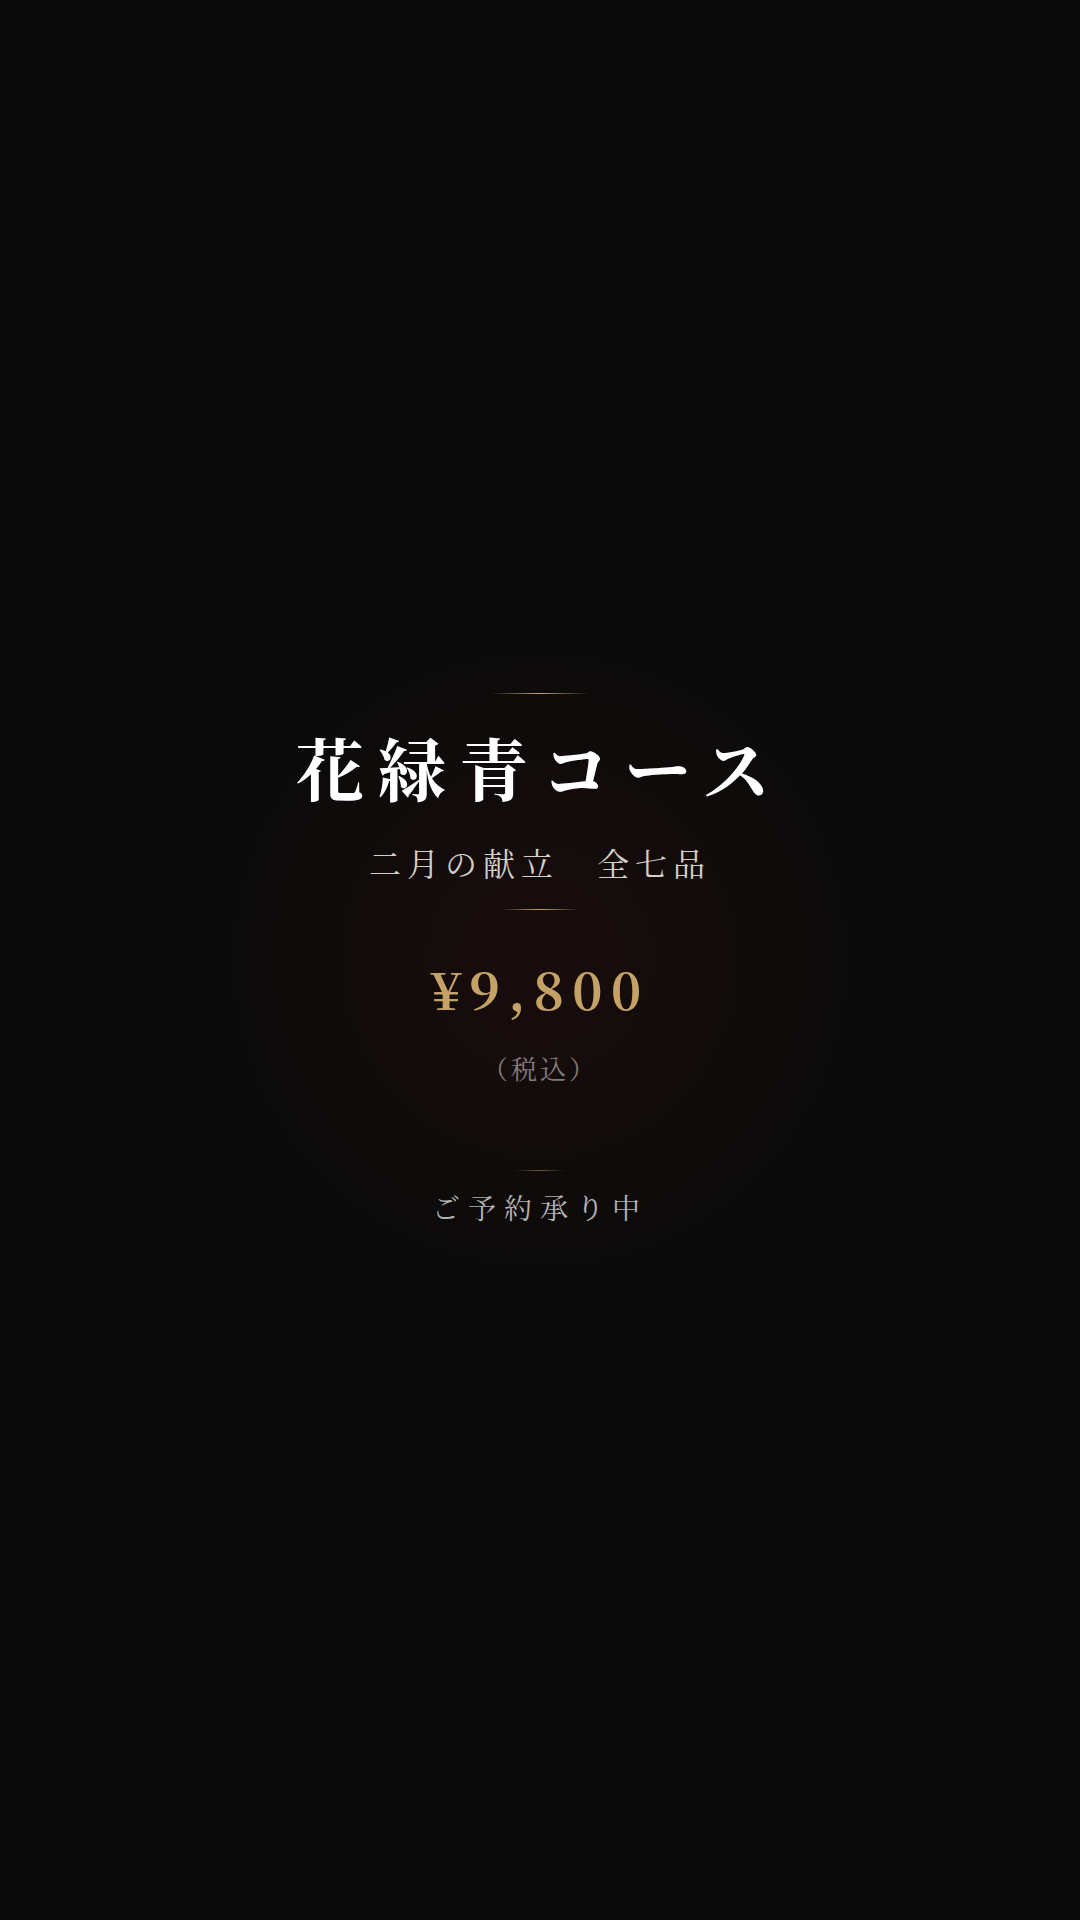
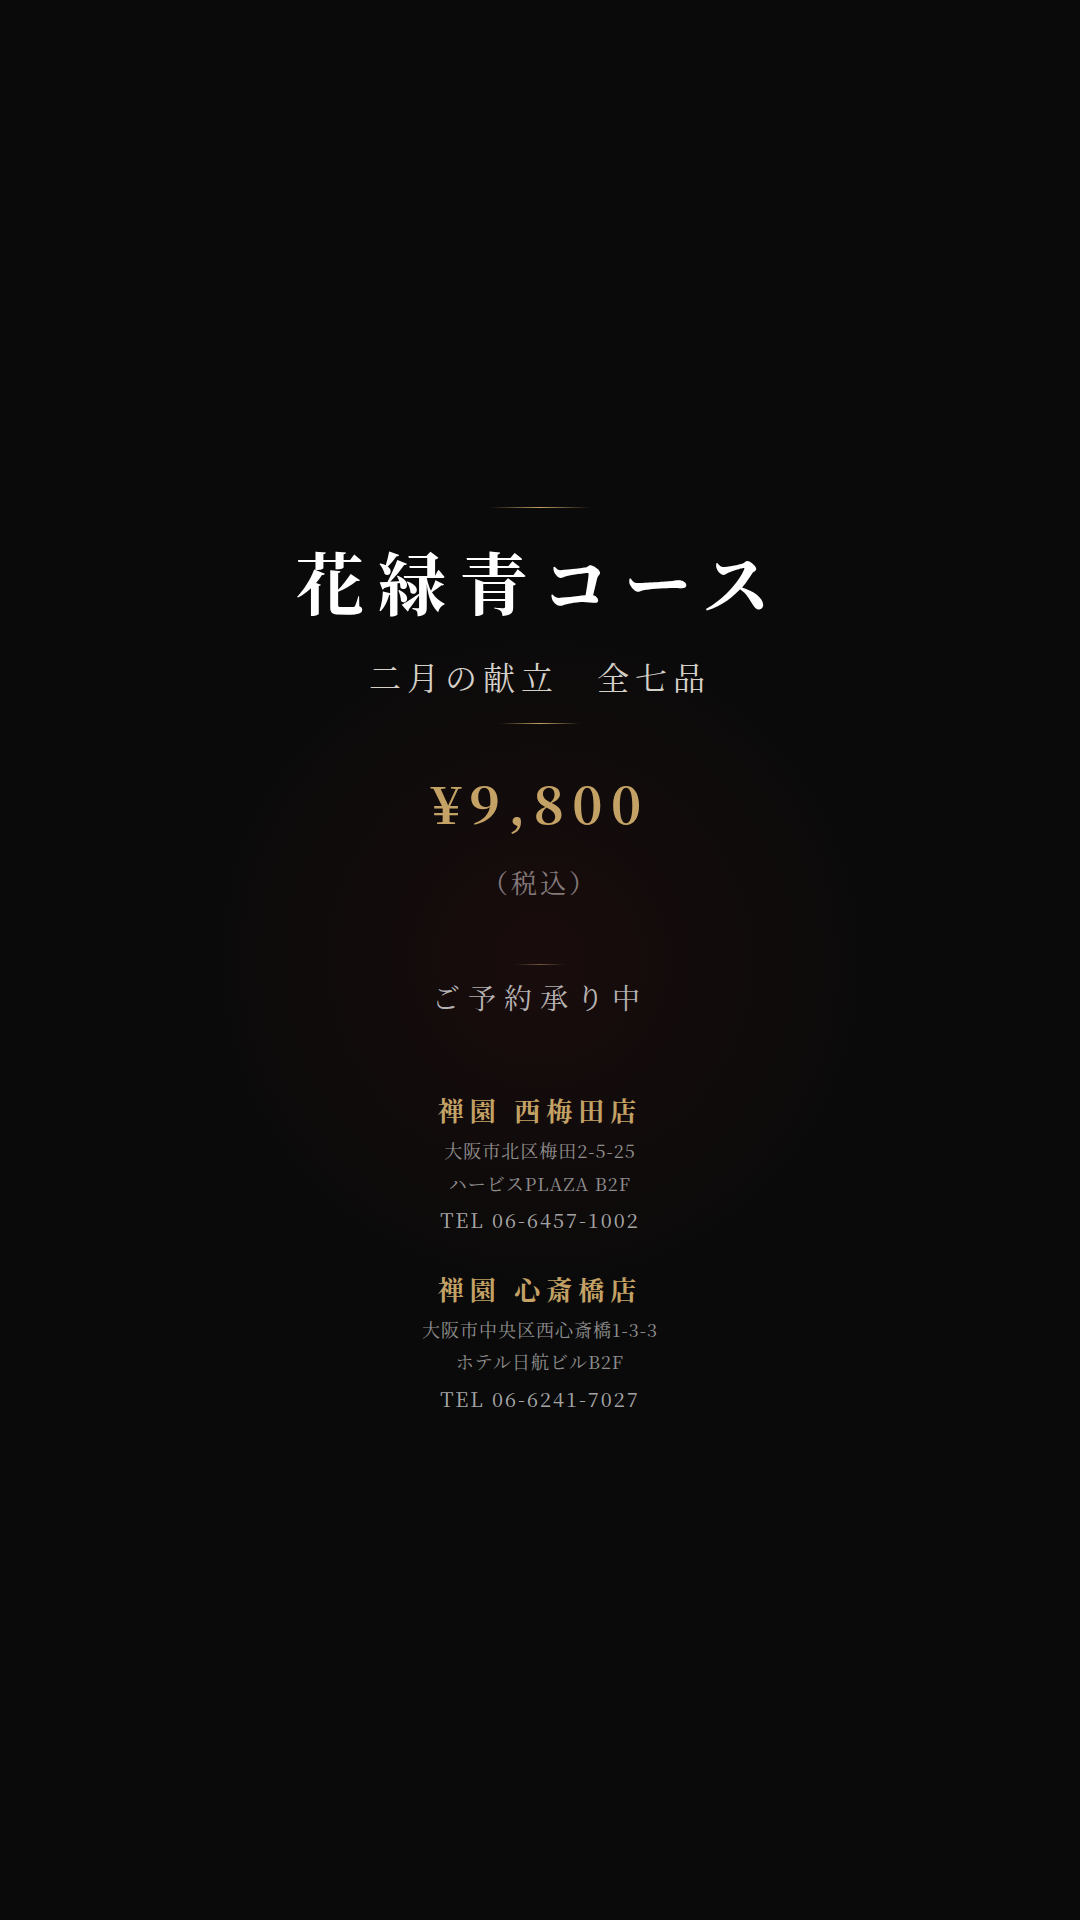
Add 禅園 store info (西梅田店・心斎橋店) to closing scene
https://claude.ai/code/session_01C2hbKpVfVX3MQhR9aHLhPz

diff --git a/src/compositions/RestaurantMenuReel.tsx b/src/compositions/RestaurantMenuReel.tsx
@@ -483,11 +483,11 @@ const ClosingScene: React.FC = () => {
         {/* CTA */}
         <div
           style={{
-            marginTop: 60,
+            marginTop: 40,
             display: "flex",
             flexDirection: "column",
             alignItems: "center",
-            gap: 16,
+            gap: 12,
             opacity: interpolate(frame, [45, 65], [0, 1], {
               extrapolateLeft: "clamp",
               extrapolateRight: "clamp",
@@ -516,6 +516,121 @@ const ClosingScene: React.FC = () => {
             }}
           >
             ご予約承り中
+          </div>
+        </div>
+
+        {/* Store info */}
+        <div
+          style={{
+            marginTop: 50,
+            display: "flex",
+            flexDirection: "column",
+            alignItems: "center",
+            gap: 36,
+            opacity: interpolate(frame, [70, 95], [0, 1], {
+              extrapolateLeft: "clamp",
+              extrapolateRight: "clamp",
+            }),
+            transform: `translateY(${interpolate(frame, [70, 95], [20, 0], {
+              extrapolateLeft: "clamp",
+              extrapolateRight: "clamp",
+            })}px)`,
+          }}
+        >
+          {/* 西梅田店 */}
+          <div
+            style={{
+              display: "flex",
+              flexDirection: "column",
+              alignItems: "center",
+              gap: 6,
+            }}
+          >
+            <div
+              style={{
+                fontSize: 26,
+                color: "#c4a265",
+                fontFamily,
+                fontWeight: 700,
+                letterSpacing: 6,
+              }}
+            >
+              禅園 西梅田店
+            </div>
+            <div
+              style={{
+                fontSize: 18,
+                color: "rgba(255,255,255,0.55)",
+                fontFamily,
+                fontWeight: 400,
+                letterSpacing: 1,
+                lineHeight: 1.8,
+                textAlign: "center",
+              }}
+            >
+              大阪市北区梅田2-5-25
+              <br />
+              ハービスPLAZA B2F
+            </div>
+            <div
+              style={{
+                fontSize: 20,
+                color: "rgba(255,255,255,0.65)",
+                fontFamily,
+                fontWeight: 400,
+                letterSpacing: 2,
+              }}
+            >
+              TEL 06-6457-1002
+            </div>
+          </div>
+
+          {/* 心斎橋店 */}
+          <div
+            style={{
+              display: "flex",
+              flexDirection: "column",
+              alignItems: "center",
+              gap: 6,
+            }}
+          >
+            <div
+              style={{
+                fontSize: 26,
+                color: "#c4a265",
+                fontFamily,
+                fontWeight: 700,
+                letterSpacing: 6,
+              }}
+            >
+              禅園 心斎橋店
+            </div>
+            <div
+              style={{
+                fontSize: 18,
+                color: "rgba(255,255,255,0.55)",
+                fontFamily,
+                fontWeight: 400,
+                letterSpacing: 1,
+                lineHeight: 1.8,
+                textAlign: "center",
+              }}
+            >
+              大阪市中央区西心斎橋1-3-3
+              <br />
+              ホテル日航ビルB2F
+            </div>
+            <div
+              style={{
+                fontSize: 20,
+                color: "rgba(255,255,255,0.65)",
+                fontFamily,
+                fontWeight: 400,
+                letterSpacing: 2,
+              }}
+            >
+              TEL 06-6241-7027
+            </div>
           </div>
         </div>
       </div>